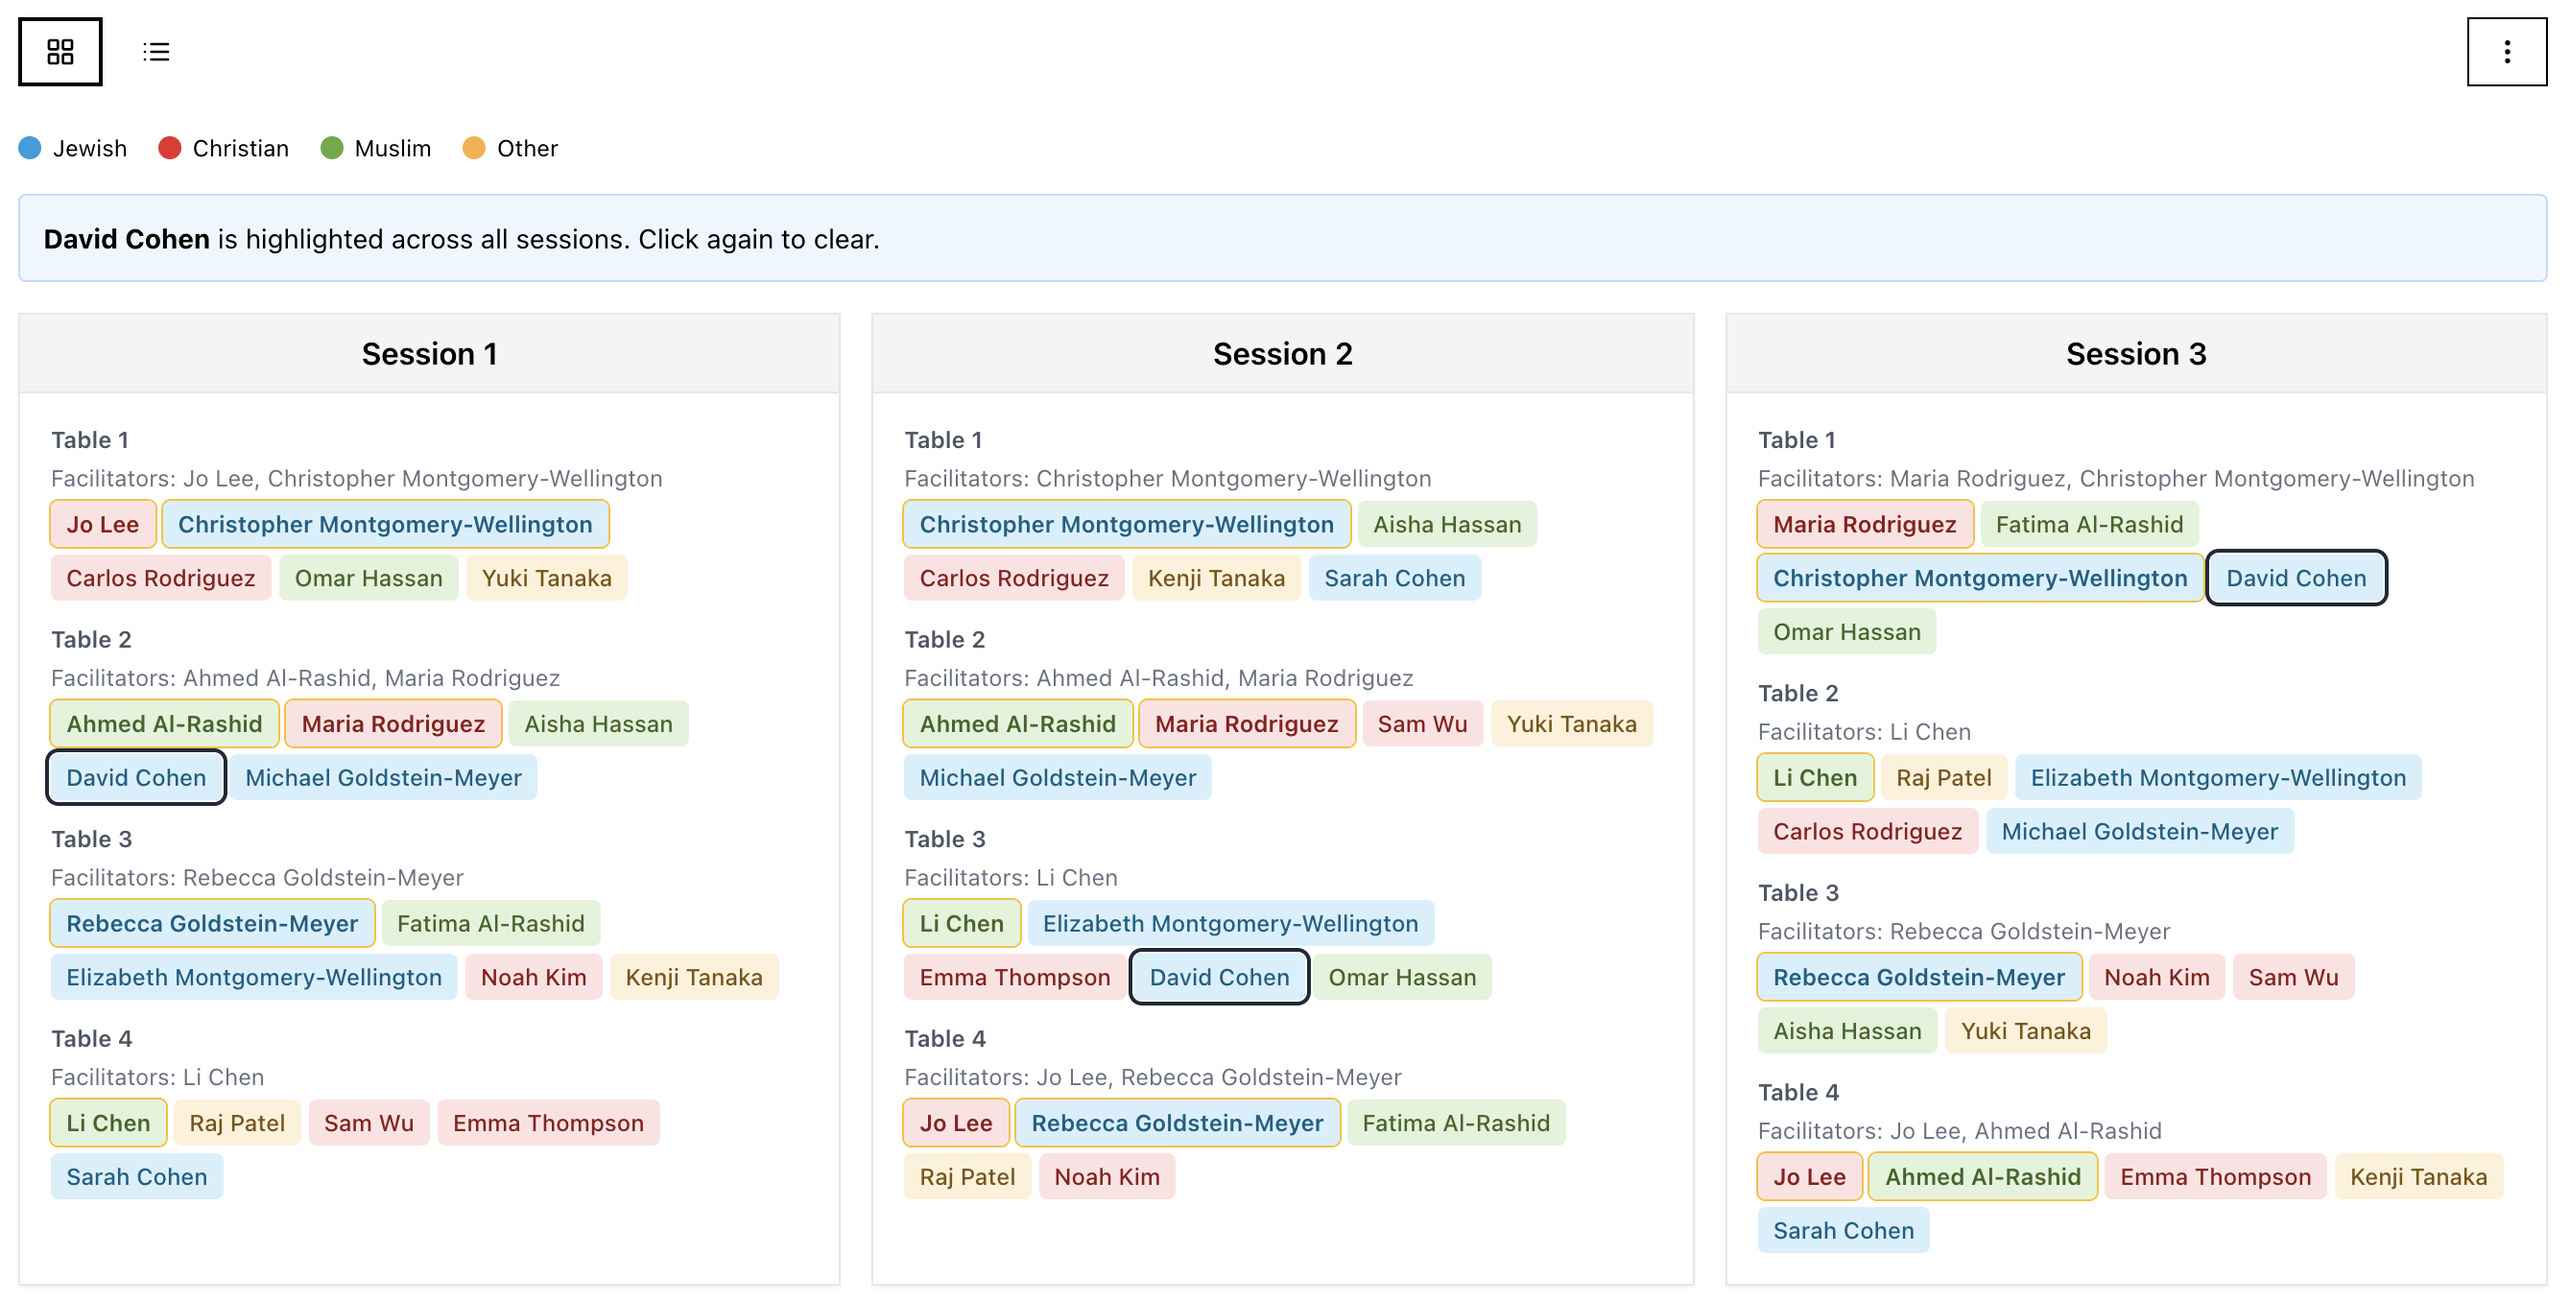
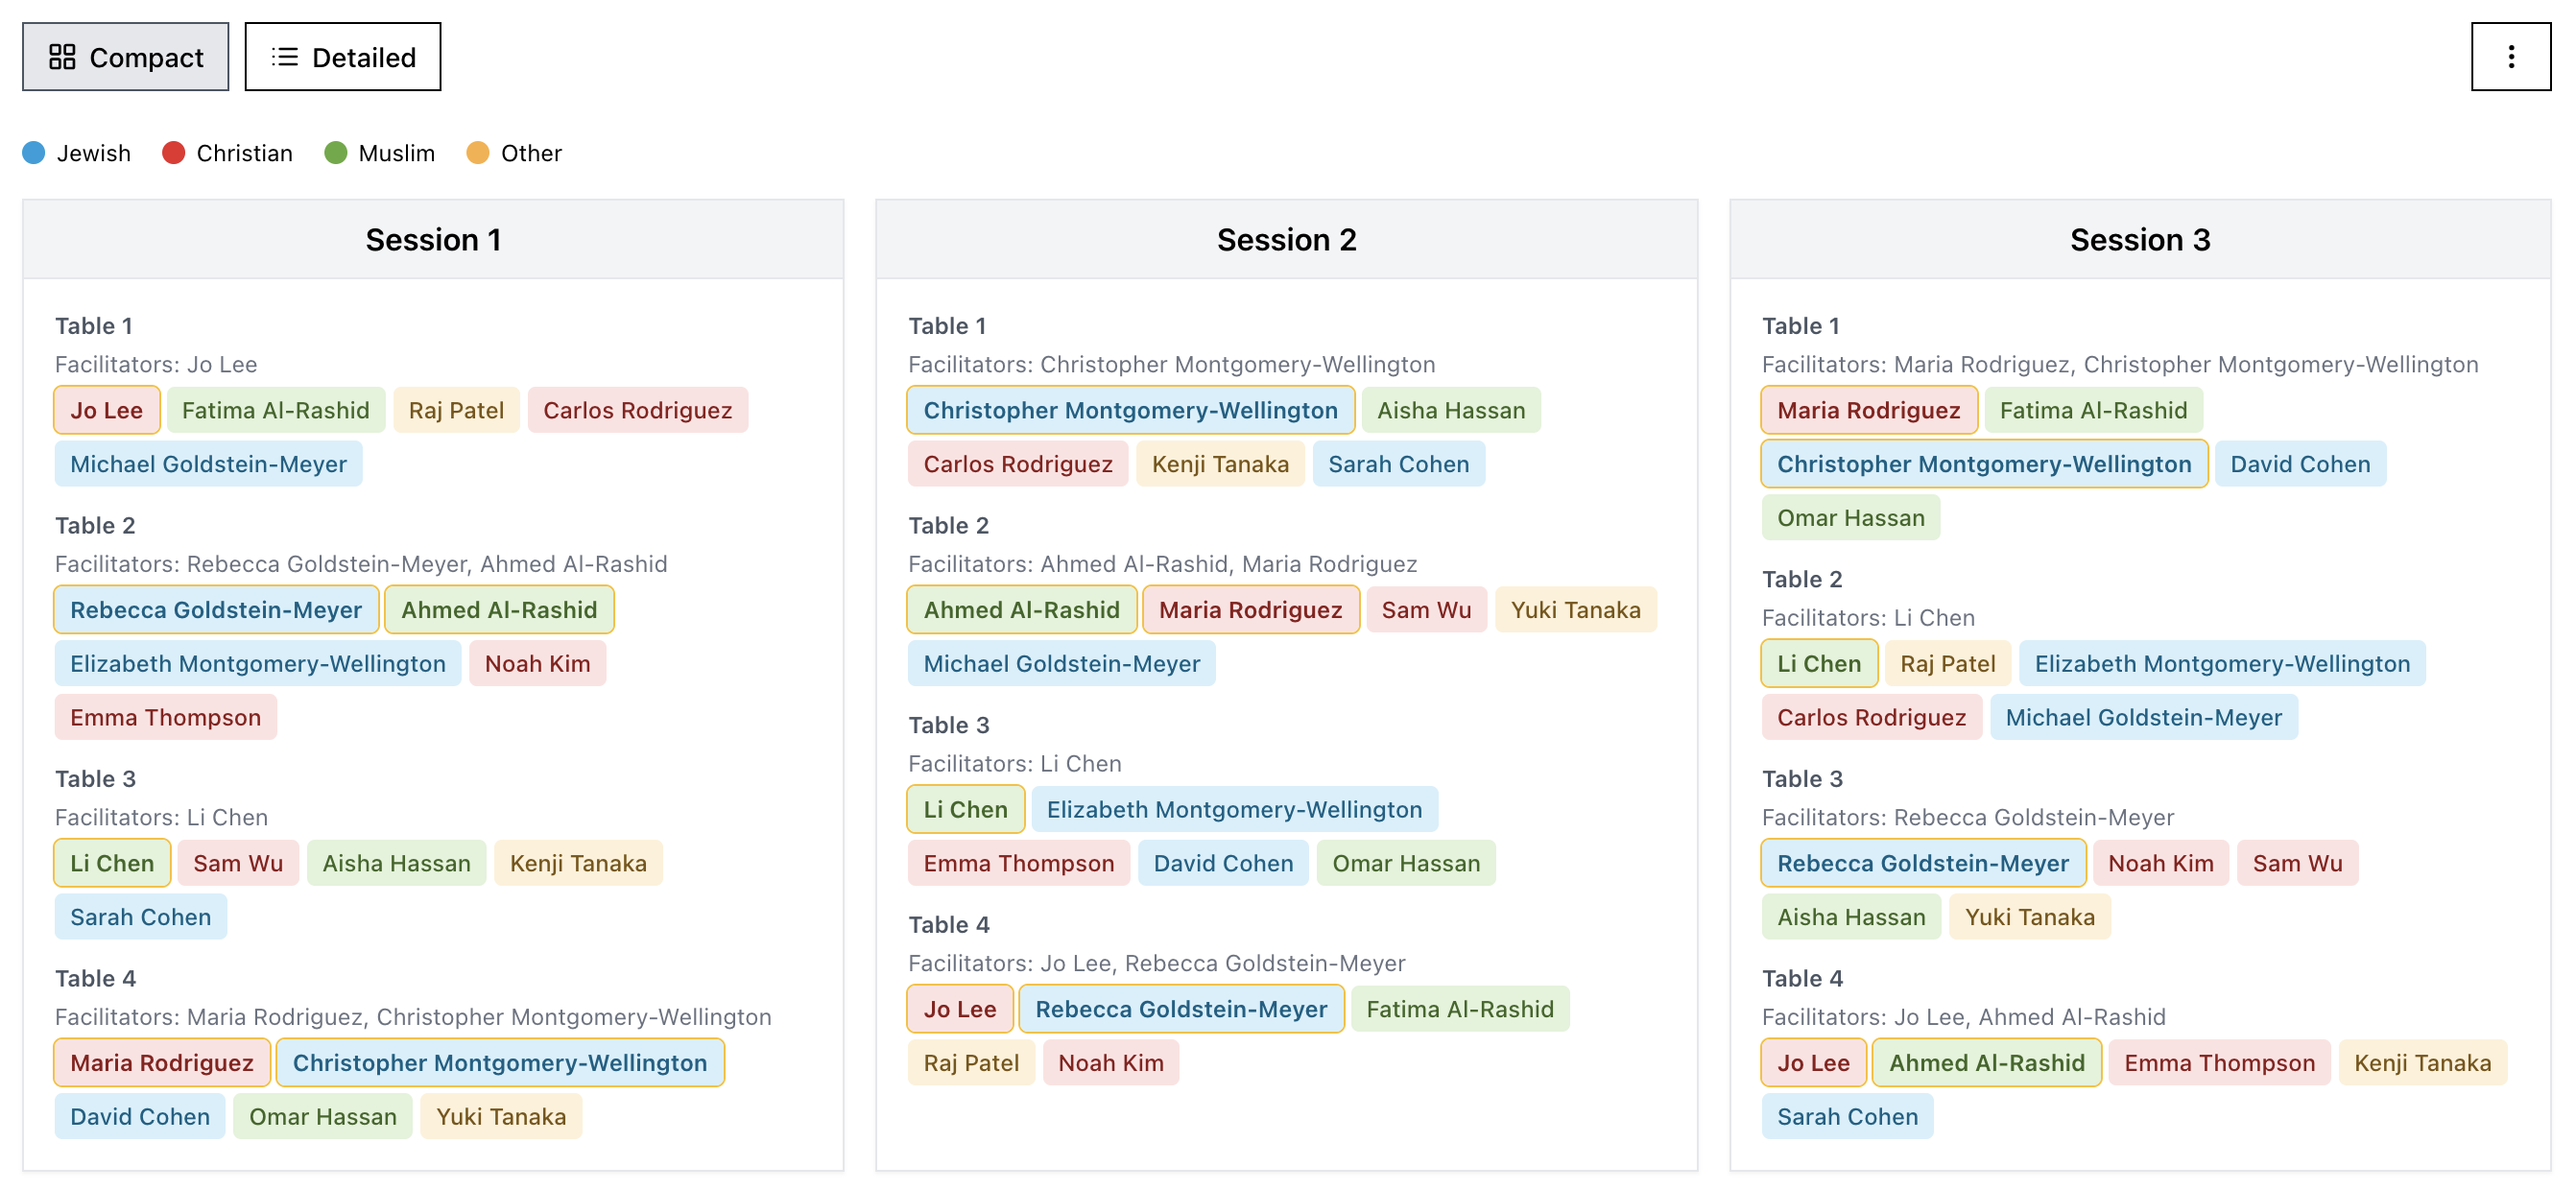
feat: labeled compact/detailed view toggle buttons with active state styling

diff --git a/frontend/src/pages/TableAssignmentsPage.tsx b/frontend/src/pages/TableAssignmentsPage.tsx
@@ -695,24 +695,26 @@ const TableAssignmentsPage: React.FC = () => {
           <div className="flex justify-between items-center mb-6">
             <div className="flex gap-2">
               <Button
-                variant={viewMode === 'compact' ? 'outline' : 'ghost'}
+                variant="outline"
                 onClick={() => setViewMode('compact')}
                 size="sm"
-                className={viewMode === 'compact' ? 'border-2 border-primary' : ''}
                 disabled={editMode}
                 aria-label="Compact view"
+                className={`gap-1.5 ${viewMode === 'compact' ? 'bg-gray-200 border-gray-600 font-medium hover:bg-gray-200 hover:border-gray-600' : ''}`}
               >
                 <LayoutGrid className="h-4 w-4" />
+                Compact
               </Button>
               <Button
-                variant={viewMode === 'detailed' ? 'outline' : 'ghost'}
+                variant="outline"
                 onClick={() => setViewMode('detailed')}
                 size="sm"
-                className={viewMode === 'detailed' ? 'border-2 border-primary' : ''}
                 disabled={editMode}
                 aria-label="Detailed view"
+                className={`gap-1.5 ${viewMode === 'detailed' ? 'bg-gray-200 border-gray-600 font-medium hover:bg-gray-200 hover:border-gray-600' : ''}`}
               >
                 <List className="h-4 w-4" />
+                Detailed
               </Button>
             </div>
 

diff --git a/frontend/src/pages/HelpPage.tsx b/frontend/src/pages/HelpPage.tsx
@@ -225,9 +225,8 @@ function HelpPage() {
           </h2>
           <p className="mb-4 text-slate-700 leading-relaxed">
             After generating assignments, you'll land on the results page. There are
-            two ways to view your groups. You'll see two small icons below the quality
-            summary — a grid icon and a list icon. These switch between compact and
-            detailed view.
+            two ways to view your groups. You'll see two buttons below the quality
+            summary — <strong>Compact</strong> and <strong>Detailed</strong> — that switch between views.
           </p>
 
           {/* Compact View */}
